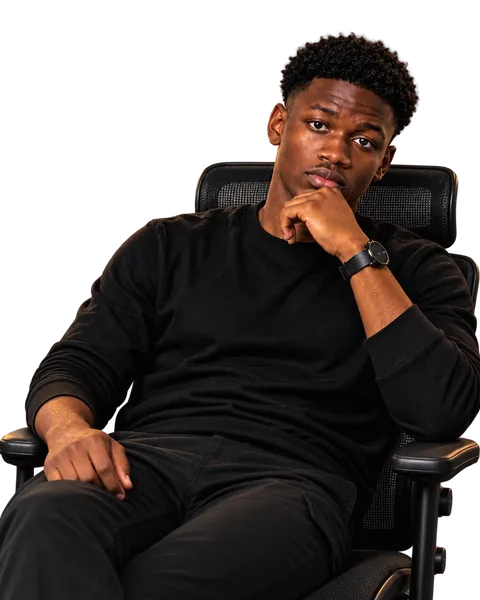
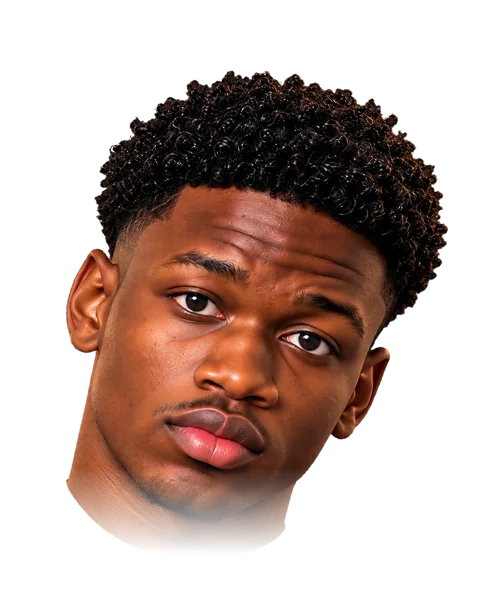
About: switch to the new head-and-shoulders portrait
Background removed (the checkerboard was part of the image), neck faded
into the ivory frame, placed in the 4:5 portrait frame.

Claude-Session: https://claude.ai/code/session_01TaKQq4ZKFStiEudSF5ioRm

diff --git a/index.html b/index.html
@@ -268,7 +268,7 @@
   <div class="wrap about-grid">
     <div class="portrait rv">
       <figure>
-        <img src="images/abou-800.webp" srcset="images/abou-480.webp 480w, images/abou-800.webp 800w" sizes="(min-width: 920px) 460px, 90vw" alt="Abou Camara seated in an office chair, chin resting on his hand" width="800" height="1000" loading="lazy" decoding="async">
+        <img src="images/abou-800.webp" srcset="images/abou-480.webp 480w, images/abou-800.webp 800w" sizes="(min-width: 920px) 460px, 90vw" alt="Portrait of Abou Camara" width="800" height="1000" loading="lazy" decoding="async">
       </figure>
       <figcaption><b>Abou Camara</b><span>Fès, Morocco</span></figcaption>
     </div>
